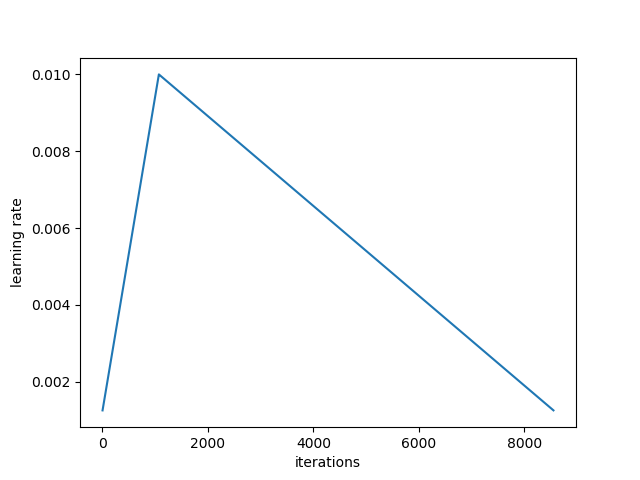
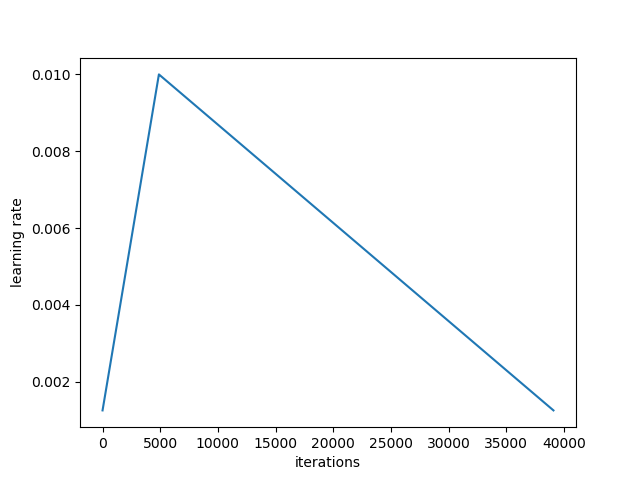
imdb finetune

Changed region(s): [[0.2188, 0.9062, 0.9062, 0.9375]]

diff --git a/finetune_lm.py b/finetune_lm.py
@@ -77,8 +77,8 @@ def train_lm(dir_path, pretrain_path, cuda_id=0, cl=25, pretrain_id='wt103', lm_
     print(f'Loading {trn_lm_path} and {val_lm_path}')
     trn_lm = np.load(trn_lm_path)
     trn_lm = np.concatenate(trn_lm)
-    val_lm = np.load(val_lm_path) * 2  # trec-6
-    #val_lm = np.load(val_lm_path)  # other than trec-6
+    #val_lm = np.load(val_lm_path) * 2  # trec-6
+    val_lm = np.load(val_lm_path)  # other than trec-6
     val_lm = np.concatenate(val_lm)
 
     if bpe:

diff --git a/README.md b/README.md
@@ -25,13 +25,13 @@ To reproduce the results of ULMFiT & customize fastai framework
     - bidir accuracy: avg of bwd & fwd (requires implementation)
 |       | IMDb         | TREC-6       | AG           | Yelp-bi      | Yelp-full    | DBpedia      |
 |-------| ------------ | ------------ | ------------ | ------------ | ------------ | ------------ |
-| `fwd` | 94.35 (5.65) | 96.8  (3.2)  | 94.2  (5.8)  | 97.61 (2.39) | ??.?  (?.?)  | 99.02 (1.08) |
+| `fwd` | 94.35 (5.65) | 96.8  (3.2)  | 94.2  (5.8)  | 97.61 (2.39) | ??.?  (?.?)  | 99.02 (0.98) |
 |`bidir`| ??.?  (?.?)  | ??.?  (?.?)  | ??.?  (?.?)  | ??.?  (?.?)  | ??.?  (?.?)  | ??.?  (?.?)  |
 
     - Fine-tuned with (i trained) LM on wikitext-103
 |       | IMDb         | TREC-6 (6i)  | AG           | Yelp-bi      | Yelp-full    | DBpedia      |
 |-------| ------------ | ------------ | ------------ | ------------ | ------------ | ------------ |
-| `fwd` | --.-- (-.--) | 97.0  (3.0)  | ??.?  (?.?)  | ??.?? (?.??) | ??.?  (?.?)  | ??.?? (?.??) |
+| `fwd` |  94.02 (5.98)| 97.0  (3.0)  | ??.?  (?.?)  | ??.?? (?.??) | ??.?  (?.?)  | ??.?? (?.??) |
 
 Dataset: imdb, trec-6, ag, yelp-bi, yelp-full, dbpedia
 
